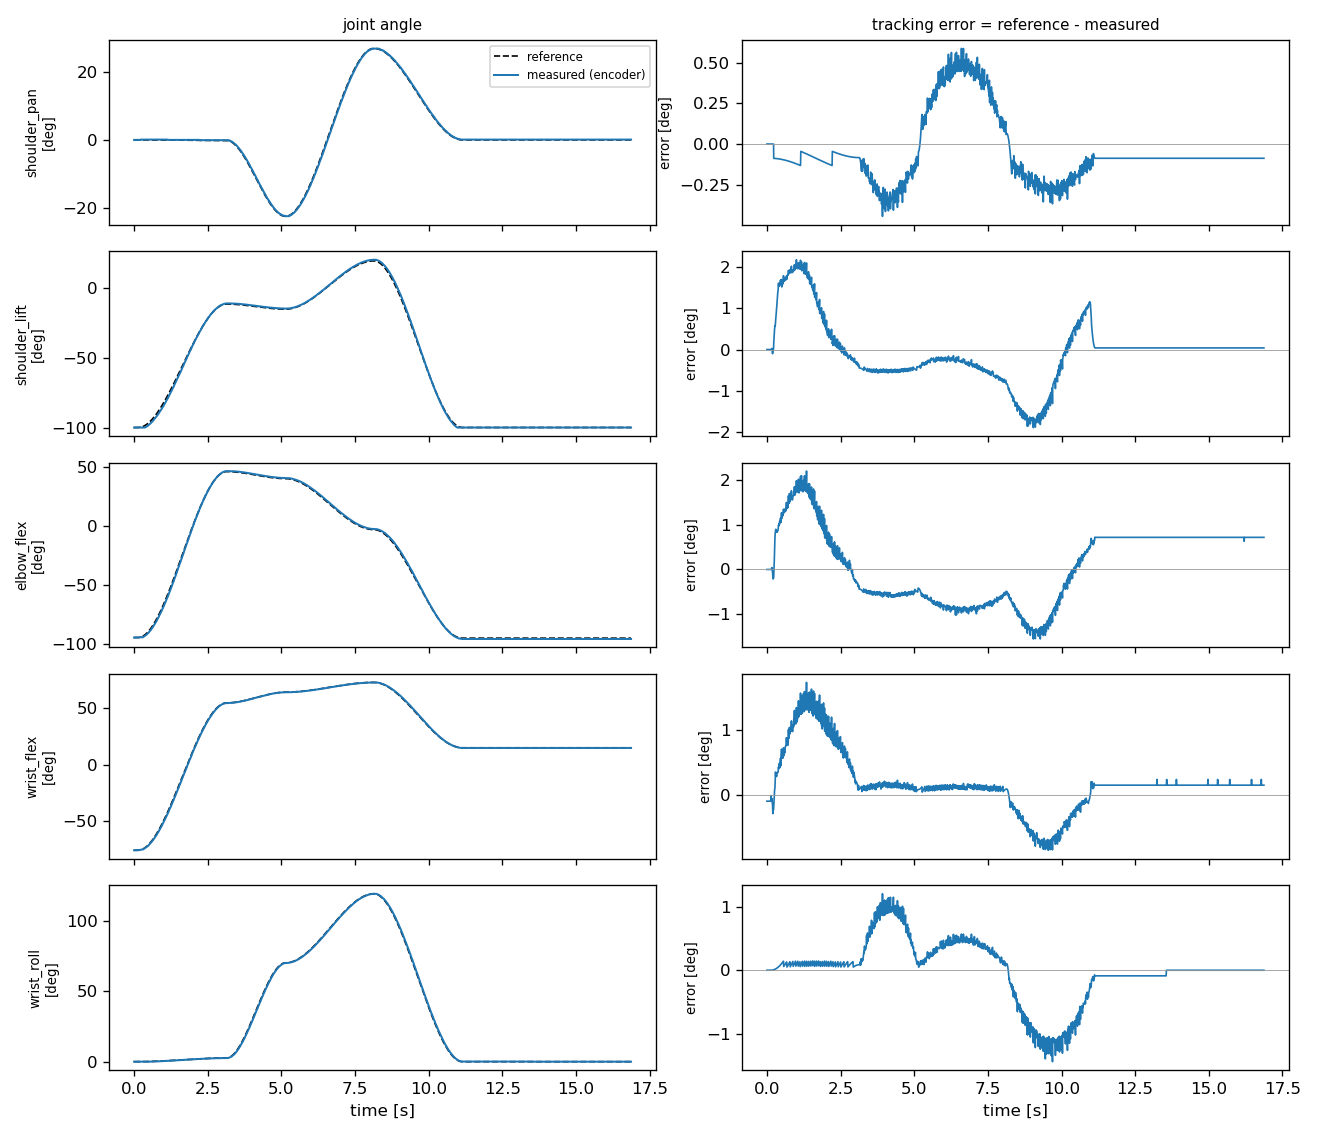
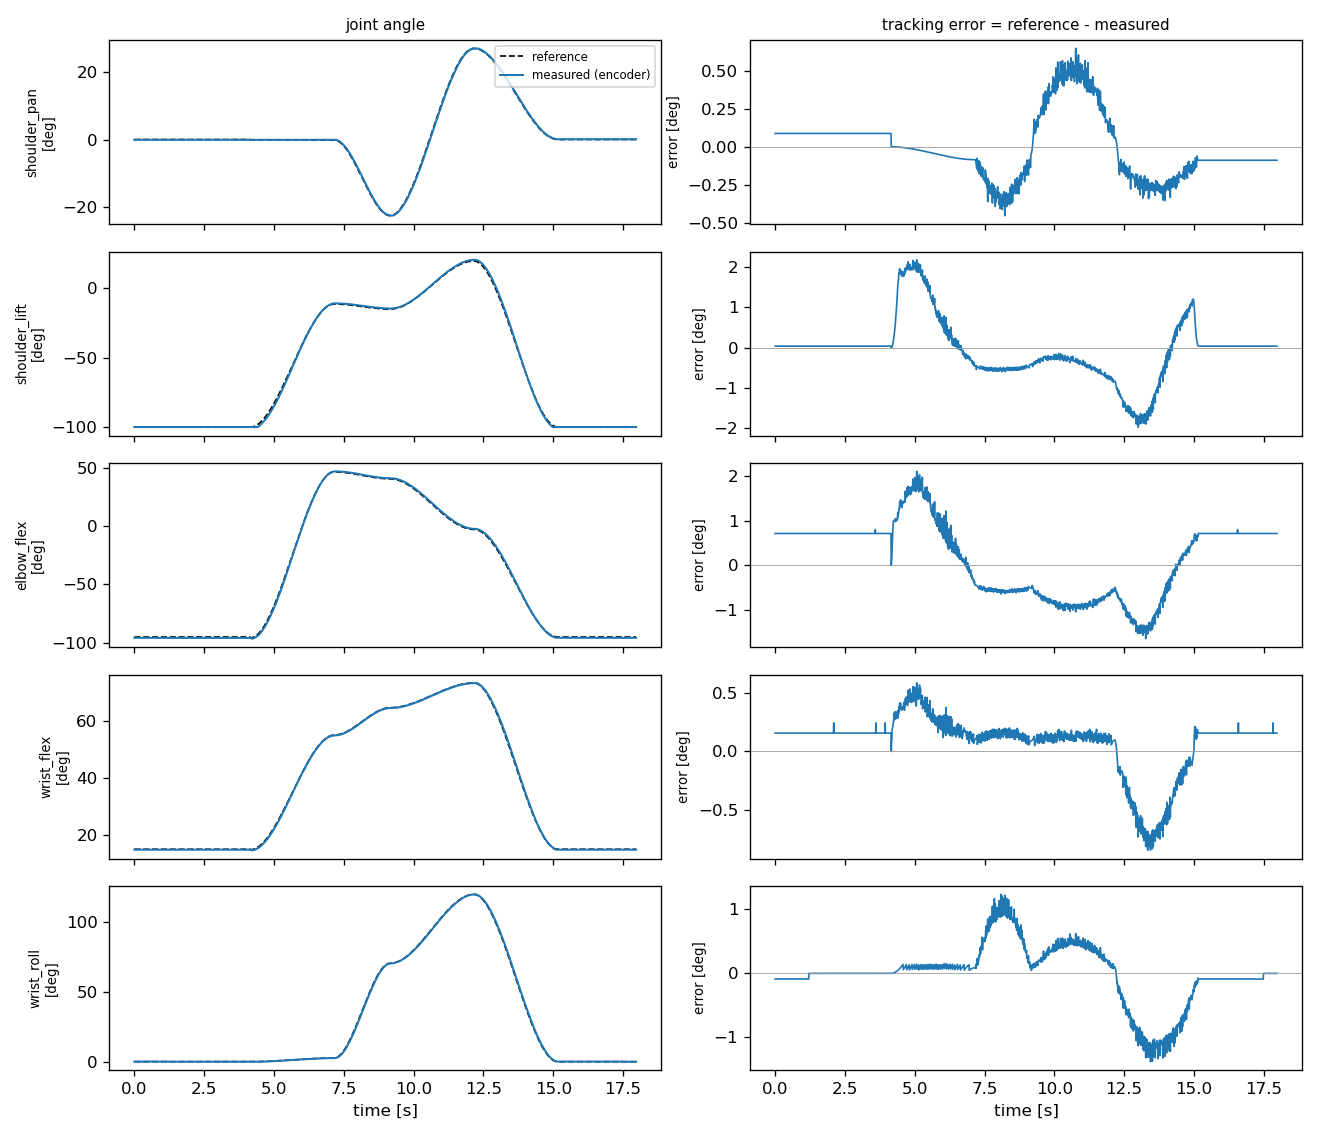
Phase 7v done: README section 10, engineering notes, results; new tracking plot

diff --git a/README.md b/README.md
@@ -31,6 +31,9 @@ measured. A real arm is an optional final phase. See [ROADMAP.md](ROADMAP.md).
 | **Camera-driven pick-and-place** (detector + hand-eye-calibrated camera + own IK) | **60/60 blocks seated** (20/20 per width), nothing about the blocks read from the simulator; perception error (xy) **0.69 mm** median, 1.01 mm max |
 | **Real-camera test (real)**: printed 1:1 sheet, 12 blocks, threshold fixed before the photos | **Phone (31 photos): 84.9 % graspable**, fused class **100 %**, xy error **0.75 / 1.72 mm** (median / p95) · laptop webcam (28 photos): 51.5 % graspable, 1.15 / 3.08 mm · synthetic baseline of the same sheet: 91–92 % · 0 false detections after the size check |
 | IK benchmark, 200 top-down poses (157 reachable) | **Own DLS IK:** 157/157 (100 %), 0.071 mm median error, 4.6 ms · **MoveIt 2 + pick_ik:** 154/157 (98.1 %), 0.563 mm, 7.5 ms, but fails in 52 ms vs 1046 ms |
+| STS3215 servo model (from the datasheet) | DC motor + 1:345 gearbox: k_t 0.785 N·m/A, R 3.04 Ω, dry + viscous friction, reflected rotor inertia, 12-bit encoder, internal P controller, I²R heating; reproduces the datasheet's stall torque, no-load speed and rated current; overheat protection switches torque off at 70 °C |
+| Virtual Feetech bus (pseudo-terminal, 1 Mbps wire timing, MuJoCo behind it) | Python client **502 Hz**, p99 5.8 ms · own **C++17 bus library** against it: **499 Hz, 0 timeouts**, p99 6.0 ms |
+| **Own ros2_control driver** (`so101_hardware`) on the virtual bus | **100 Hz**, 2 bus transactions per cycle (1.2 ms wire time) · trajectory tracking **0.66° rms** while moving (max 2.2°), ≤ 0.72° at rest (gravity sag) · **MoveIt 2 Plan & Execute over the serial protocol** · bus loss → driver stops in 50 ms, safety monitor stops motion independently · 43 C++ (gtest) / 64 Python tests in total |
 
 ## Project status
 
@@ -45,7 +48,11 @@ measured. A real arm is an optional final phase. See [ROADMAP.md](ROADMAP.md).
   - [x] 4.5a Pick-and-place driven by the camera instead of ground truth
   - [x] 4.5b MoveIt 2 configuration + benchmark against my own IK
   - [x] 4.2b Real-camera test with a printed 1:1 test sheet (laptop webcam and phone)
-- [ ] **Phase 7v, Virtual hardware:** STS3215 servo physics model, Feetech protocol emulator, own C++ ros2_control driver
+- [x] **Phase 7v, Virtual hardware**
+  - [x] 7v.1 STS3215 servo physics model + Feetech protocol emulator
+  - [x] 7v.2 Virtual serial port in real time, coupled to the MuJoCo arm
+  - [x] 7v.3 C++17 Feetech bus library + command-line tool
+  - [x] 7v.4 ros2_control hardware plugin, `hardware:=mock|feetech`, MoveIt on the virtual bus
 - [ ] **Realism layer + sim-to-real gap study:** camera noise and latency, calibration errors, ideal vs realistic sim
 - [ ] **Phase 5, Imitation learning:** ACT on sim demonstrations and on a public real SO-101 dataset, compared with the classic pipeline
 - [ ] **Phase 6, Release:** Docker, GitHub Actions CI, video
@@ -78,7 +85,9 @@ solver iterations made blocks "walk" on the rail (a simulation artefact, not a c
 | Package | What it does |
 |---|---|
 | `so101_description` | URDF imported reproducibly from SO-ARM100, own `tcp_link` matching the sim TCP (the official frame differs by 2 cm), RViz launch |
-| `so101_bringup` | ros2_control: mock hardware (replaced by a Feetech driver later), joint trajectory controller and gripper controller |
+| `so101_bringup` | ros2_control with `hardware:=mock` or `hardware:=feetech` (virtual or real bus), joint trajectory controller and gripper controller; `go_to_pose.py` (homing), `record_tracking.py` |
+| `feetech_bus` | **C++17** Feetech STS protocol library: packets, checksums, sign-magnitude registers, raw `termios` serial port, timeouts, stale-reply handling; `feetech_cli` |
+| `so101_hardware` | **C++** ros2_control `SystemInterface` plugin for the SO-101 on a Feetech bus (see section 10) |
 | `so101_interfaces` | `ServoTelemetry` message: load, temperature and voltage per servo |
 | `so101_safety` | **C++** safety monitor: debounced overload, temperature, voltage, fail-safe telemetry timeout; latched fault; stop-category-2-style stop through the controller manager; reset only when safe. The rules live in a ROS-free class covered by gtest |
 | `so101_moveit_config` | MoveIt 2: SRDF with a generated collision matrix, OMPL planning, **pick_ik** as IK plugin, `compare_ik_moveit.py` benchmark client |
@@ -180,6 +189,59 @@ What the test showed, and what was done about it:
 **Honest limitation:** a flat print cannot test block height, side faces, shadows or shiny plastic;
 the detector, pose and hand-eye numbers above it come from simulation.
 
+### 10. Virtual hardware: `sim/so101_sim/feetech/`, `feetech_bus`, `so101_hardware`
+The goal: the software that would drive a real arm, tested byte for byte, without buying one.
+```
+MoveIt 2 / demo scripts
+  -> JointTrajectoryController (ros2_control, 100 Hz)
+  -> so101_hardware  (C++ plugin: SYNC_READ state, SYNC_WRITE goals)
+  -> feetech_bus     (C++: Feetech STS protocol over a raw serial port)
+  -> /tmp/so101_bus  (pseudo-terminal)      | a real arm: /dev/ttyACM0, same code
+  -> Python emulator of 6 STS3215 servos (register map, protections, 1 Mbps wire timing)
+  -> servo physics model -> torque on the MuJoCo joints
+```
+- **Servo model (7v.1):** each STS3215 is a DC motor behind a 1:345 gearbox. The motor constants come
+  from the datasheet (stall torque, no-load speed, rated current), friction from the rated operating
+  point, the reflected rotor inertia (J·N²) enters MuJoCo as joint armature. The internal P controller
+  explains a load-dependent position error **e = τ_load / K_p**; I²R heating and the overload and
+  overheat protections behave like the firmware's.
+- **Virtual bus (7v.2):** a pseudo-terminal in raw mode, so bytes like 0x03 and 0x0D pass unchanged;
+  every reply is delayed by its wire time at 1 Mbps; the physics runs against the wall clock.
+  Latency and lost replies can be injected (`--latency-ms`, `--drop-rate`).
+- **C++ bus library (7v.3):** no exceptions in the loop (status codes), `poll()` timeouts, and before each
+  request the input is flushed, so a late reply to an earlier request is never taken as the answer.
+- **ros2_control plugin (7v.4):** one control cycle = **one SYNC_READ** of registers 56–63 (position,
+  velocity, load, voltage, temperature of all 6 servos, 0.98 ms) + **one SYNC_WRITE** of the goals
+  (0.26 ms). Lifecycle: *configure* checks every servo; *activate* is a **safe start** (goal := present
+  position, read back, then torque on); *deactivate* and bus errors leave the servos holding their last
+  goal. Telemetry for the safety monitor is published from its own thread, so the control loop never
+  waits on DDS. The joint calibration (`zero_steps`, `direction`) is a parameter per joint, so a real
+  arm only needs its own values and `port:=/dev/ttyACM0`.
+
+![Servo model against the datasheet, P-control sag and overheat protection](media/servo_model.png)
+
+**Tracking over the virtual bus** (demo trajectory, 100 Hz): the error grows with joint speed
+(following error of a P-controlled servo plus one cycle of delay), shoulder and elbow keep a small
+static offset under gravity, and steps of 0.088° show the 12-bit encoder.
+With mock hardware, the same plot is a flat zero line.
+
+| Joint | rms error | max error | final error |
+|---|---|---|---|
+| shoulder_pan | 0.20° | 0.65° | 0.09° |
+| shoulder_lift | 0.74° | 2.17° | 0.04° |
+| elbow_flex | 0.83° | 2.11° | 0.72° |
+| wrist_flex | 0.26° | 0.85° | 0.16° |
+| wrist_roll | 0.45° | 1.38° | 0.00° |
+
+![Reference vs measured joint angles over the virtual Feetech bus](media/ros2_control_feetech_tracking.png)
+
+Run it (three terminals):
+```bash
+python sim/scripts/run_virtual_bus.py --viewer                              # venv: 6 virtual servos
+ros2 launch so101_moveit_config demo.launch.py hardware:=feetech            # ROS: driver + MoveIt
+ros2 run so101_bringup go_to_pose.py park                                    # homing after power-up
+```
+
 ---
 
 ## Engineering notes
@@ -195,21 +257,54 @@ about 9.2 s each. Cause: the Windows clock was off by −9.19 s, so Hyper-V time
 Windows Time service on auto start, `systemd-timesyncd` disabled (one clock master), clock source
 `hyperv_clocksource_tsc_page`.
 
+**Safe start needs a read-back.** A servo keeps its last goal in RAM even with torque off; switching
+torque on would make it jump there. So the driver writes the *present* position as the goal first. But
+SYNC_WRITE is a broadcast without a reply, so the goals are **read back** before torque goes on - and
+write + read-back are repeated *together*, because if the write was lost, reading again never helps.
+A test shows the hazard: without safe start the (fake) servo jumps 97°.
+
+**Setup may retry, the control loop may not wait.** On the laptop the first start failed: one bus reply
+took longer than the 5 ms timeout (the Python bus has a p99 of about 6 ms under WSL), and safe start
+gave up correctly. Fix: start-up steps retry up to 3 times (nothing moves yet), the 100 Hz loop never
+retries (a late cycle delays every controller; 5 lost replies in a row = 50 ms blind → stop), and the
+reply timeout became a launch argument (`timeout_ms`, 10 ms for the virtual bus; a real USB adapter answers faster, so 5 ms there).
+Checked with injected faults: 4 ms extra latency + 2 % lost replies → every start succeeds after 1 retry.
+
+**One program per serial bus.** Two programs on one port take each other's replies, and both see random
+timeouts. The driver, the CLI and the Python client lock the port with `flock()`; a second program gets
+"in use by another program". The kernel drops the lock when the process ends, even after a crash
+(`TIOCEXCL` would stay set while the virtual bus keeps its end of the pty open).
+
+**A joint limit the encoder cannot show.** MoveIt refused to plan on the virtual bus: "Joint
+'shoulder_lift' ... outside bounds by [-1.74567], should be in the range [-1.74533]". The arm rests on its
+mechanical stop at -100°, and -1.74533 rad lies *between* two encoder steps (1.534 mrad each): the nearest
+reading is step -1138 = -1.74567 rad. MoveIt does not tolerate any start state outside the limits. Fix:
+the software limit has to contain every pose the arm can rest in, *plus the measurement resolution* →
+lower limit -1.7500 rad (3 steps). Moving 'park' off the stop instead was rejected: the shoulder then
+holds the arm at ~47 % PWM all the time (heat) and sags 1.3°. Mock hardware cannot show any of this.
+
+**Stick-slip when unfolding.** After power-up the gripper lies on the table. A straight joint move to
+'park' turns the wrist up first and presses the gripper into the table: friction holds it, the wrist servo
+sits at 100 % duty for 1.6 s, then it breaks loose and jumps 0.66 rad - the trajectory controller aborts
+on > 0.2 rad path error (a tracking error is a contact detector). `go_to_pose.py` therefore lifts the
+shoulder first and only then moves to the pose, like a real robot unfolding.
+
 ---
 
 ## Repository layout
 ```
 sim/            MuJoCo models (SO-101 from MuJoCo Menagerie + DIN-rail scenes) and so101_sim package
   so101_sim/    kinematics.py, ik.py, scene.py, pick_place.py
-  scripts/      demos (IK, scene viewer, pick-and-place runs), IK benchmark
-  tests/        pytest: FK, Jacobian/IK, scene, pick-and-place, URDF<->MJCF consistency
+    feetech/    STS3215 servo model, Feetech protocol + emulator, virtual serial bus, MuJoCo coupling, client
+  scripts/      demos (IK, scene viewer, pick-and-place runs), IK benchmark, virtual bus, servo model report
+  tests/        pytest: FK, Jacobian/IK, scene, pick-and-place, URDF<->MJCF consistency, servo model, protocol, bus
 perception/     so101_perception package: calibration, synthetic data, pose estimation, hand-eye
   scripts/      checkerboard PDF, capture (Windows), calibration, dataset generation, YOLO train/eval,
                 real-camera sheet test (PDF, capture, phone photo preparation, evaluation, error analysis),
                 pose evaluation, hand-eye calibration, camera-driven pick-and-place
   calibration/  camera and hand-eye calibration results (YAML)
   tests/        pytest: calibration, synthetic data, pose estimation, hand-eye
-ros2_ws/src/    ROS 2 packages (description, bringup, interfaces, safety, moveit_config)
+ros2_ws/src/    ROS 2 packages (description, bringup, interfaces, safety, moveit_config, feetech_bus, so101_hardware)
 experiments/    trial logs (CSV) and benchmark results (JSON)
 media/          GIFs and images for this README
 ROADMAP.md      plan and status of all phases
@@ -221,17 +316,26 @@ Tested on Windows 11 + WSL2 (Ubuntu 24.04), Python 3.12, ROS 2 Jazzy, RTX 3050 T
 # Python side (simulation, perception)
 uv venv --python 3.12 .venv && source .venv/bin/activate
 uv pip install -r requirements-lock.txt && uv pip install -e .
-pytest -q                                                  # 33 tests
+pytest -q                                                  # 64 tests
 python sim/scripts/run_pick_place.py --viewer              # watch the scripted pick-and-place
 python perception/scripts/run_camera_pick_place.py --episodes 20   # camera-driven pipeline
 
 # ROS 2 side (separate terminal, without the venv)
 source /opt/ros/jazzy/setup.bash && cd ros2_ws
 colcon build --symlink-install && source install/setup.bash
-colcon test --packages-select so101_safety                # C++ unit tests
-ros2 launch so101_bringup bringup.launch.py                # robot + controllers + RViz
+colcon test --packages-select so101_safety feetech_bus so101_hardware   # C++ unit tests
+ros2 launch so101_bringup bringup.launch.py                # robot + controllers + RViz (mock hardware)
 ros2 launch so101_safety safety.launch.py                  # safety monitor + simulated telemetry
 ros2 launch so101_moveit_config demo.launch.py             # MoveIt 2 + RViz (Plan & Execute)
+```
+
+**Virtual hardware** (venv terminal + ROS terminals):
+```bash
+python sim/scripts/run_virtual_bus.py --viewer                       # venv: virtual servos at /tmp/so101_bus
+ros2 launch so101_moveit_config demo.launch.py hardware:=feetech     # ROS: own driver + MoveIt
+ros2 launch so101_safety safety.launch.py fake_telemetry:=false      # ROS: safety monitor on real telemetry
+ros2 run so101_bringup go_to_pose.py park                             # ROS: homing after power-up
+ros2 run so101_bringup demo_trajectory.py                             # ROS: demo trajectory
 ```
 
 **IK benchmark** (needs both environments):
@@ -242,8 +346,8 @@ python sim/scripts/ik_benchmark.py report                  # venv: comparison ta
 ```
 
 ## Tech stack
-Python, NumPy, SciPy, MuJoCo · ROS 2 Jazzy, ros2_control, MoveIt 2 (OMPL, pick_ik), rclcpp (C++17),
-gtest · OpenCV · Ultralytics YOLO26-OBB, PyTorch · LeRobot (ACT, coming next) · WSL2
+Python, NumPy, SciPy, MuJoCo · ROS 2 Jazzy, ros2_control (own hardware plugin, pluginlib), MoveIt 2
+(OMPL, pick_ik), rclcpp (C++17), gtest · Feetech STS serial protocol, POSIX termios / pseudo-terminals · OpenCV · Ultralytics YOLO26-OBB, PyTorch · LeRobot (ACT, coming next) · WSL2
 
 ## Credits and licences
 - SO-101 URDF and meshes: [TheRobotStudio/SO-ARM100](https://github.com/TheRobotStudio/SO-ARM100) (Apache-2.0)

diff --git a/ROADMAP.md b/ROADMAP.md
@@ -26,7 +26,7 @@ Pace: ~8 h/week. After every phase: README result row + short GIF/clip + commit.
 | 4.5a | Camera-guided pick & place in sim — 60/60 | ✅ Done | – |
 | 4.5b | MoveIt 2 (pick_ik) + benchmark vs own IK — own 157/157, 0.07 mm; pick_ik 154/157, 0.56 mm | ✅ Done | – |
 | 4.2b | Real-camera test with printed 1:1 sheet — phone 84.9 % graspable, 0.75 mm; laptop 51.5 % | ✅ Done | – |
-| 7v | Virtual hardware: servo model, Feetech emulator, C++ ros2_control driver | ⬜ | 14 Dec – 3 Jan |
+| 7v | Virtual hardware: servo model, Feetech emulator, C++ ros2_control driver — 100 Hz, 0.66° rms tracking, MoveIt on the virtual bus | ✅ Done (28 Nov, ahead of plan) | – |
 | R | Realism layer + sim-to-real gap study | ⬜ | 4 – 17 Jan |
 | 5 | ACT imitation learning (sim demos + real public SO-101 data) | ⬜ | 18 Jan – 7 Feb |
 | 6 | Release: Docker, GitHub Actions CI, video, final README | ⬜ | 8 – 21 Feb |
@@ -63,25 +63,32 @@ Fused class 100 % everywhere; size check removes all false detections. Remaining
 Lessons: pre-registered threshold, calibration coverage + distortion model check, binned phone modes.
 **Be able to explain:** what a flat print tests (camera model, detector) and what it cannot (height, shadows, occlusion).
 
-## 7v — Virtual hardware (the core of the "realistic" version)
+## 7v — Virtual hardware ✅
 
-1. **Servo physics model (STS3215):** DC motor + 1:345 gearbox from datasheet values
-   (Kt, R, rated current), Coulomb + viscous friction, backlash, speed and torque limits,
-   12-bit encoder quantization, internal P-controller, I²R thermal model, stall/overheat protection.
-2. **Feetech protocol emulator:** Python, virtual serial port (pty), 6 IDs, real register map,
-   PING / READ / WRITE / SYNC_WRITE, checksums, bus timing at 1 Mbps, injectable latency and packet loss.
-   Its motors are the MuJoCo joints.
-3. **C++ protocol library:** packet encode/decode + checksum, gtest unit tests.
-4. **C++ ros2_control `SystemInterface` (`so101_hardware`):** lifecycle, SyncWrite goals,
-   read position / load / temperature.
-5. **Bringup:** launch argument `hardware:=mock|emulator|feetech`.
-6. **Safety:** safety node reacts to emulator-injected over-temperature and comms timeouts.
-7. **Integration test:** send a trajectory, check tracking within tolerance.
+1. **7v.1 Servo physics model (STS3215):** DC motor + 1:345 gearbox from datasheet values
+   (k_t 0.785 N·m/A, R 3.04 Ω), dry + viscous friction, backlash, reflected inertia, 12-bit encoder,
+   internal P controller, I²R thermal model, overload/overheat protection. **Feetech protocol emulator:**
+   real register map, PING / READ / WRITE / REG_WRITE / ACTION / SYNC_WRITE / SYNC_READ, EEPROM lock.
+2. **7v.2 Virtual serial port:** pty in raw mode, wire timing at 1 Mbps, real-time physics, injectable
+   latency and lost replies; its motors are the MuJoCo joints. Python client: 502 Hz, p99 5.8 ms.
+3. **7v.3 C++17 bus library `feetech_bus` + `feetech_cli`:** status codes instead of exceptions, `poll()`
+   timeouts, stale-reply handling; byte-compatible with the emulator: 499 Hz, 0 timeouts.
+4. **7v.4 ros2_control plugin `so101_hardware`:** lifecycle, one SYNC_READ (registers 56–63) + one
+   SYNC_WRITE per cycle, safe start with read-back, setup retries, one driver per bus (`flock`),
+   telemetry thread for the safety monitor; bringup `hardware:=mock|feetech`, `timeout_ms`;
+   homing tool `go_to_pose.py`; tracking recorder `record_tracking.py`.
 
-**Deliverable:** the same driver that would run a real arm, tested byte-for-byte against an emulator.
-**Be able to explain:** half-duplex bus timing and the control-loop rate limit; ros2_control lifecycle;
-why a P-controlled geared servo has a load-dependent position error (e = τ_load / K_p, plus backlash);
-what an emulator cannot prove (real timing, compliance, gravity load on real links).
+**Result:** MoveIt 2 Plan & Execute over the serial protocol; 100 Hz, tracking 0.66° rms while moving
+(max 2.2°); bus loss → driver stops in 50 ms, safety monitor stops motion on telemetry timeout;
+43 C++ + 64 Python tests.
+**Found on the way (none of it visible with mock hardware):** a 5 ms reply timeout was too tight for
+the Python bus (p99 ~6 ms) → setup retries + 10 ms; a joint limit between two encoder steps made MoveIt
+reject the resting arm → limit with 3 steps of margin; stick-slip of the gripper on the table during
+unfolding → lift-off-first homing.
+**Be able to explain:** half-duplex bus timing and the cycle budget (0.98 + 0.26 ms of 10 ms);
+ros2_control lifecycle and read → update → write; why a P-controlled geared servo has a load-dependent
+position error (e = τ_load / K_p); why setup may retry but the loop may not; what an emulator cannot prove
+(real USB latency, compliance and backlash of real links, real friction).
 
 ## R — Realism layer + sim-to-real gap study
 
@@ -121,7 +128,8 @@ what an emulator cannot prove (real timing, compliance, gravity load on real lin
 
 ## 8 — Optional: real SO-101 follower arm (only if time and budget allow)
 
-Everything above transfers directly: `hardware:=feetech` replaces `hardware:=emulator`.
+Everything above transfers directly: the same `hardware:=feetech` driver, only with `port:=/dev/ttyACM0`,
+`timeout_ms:=5` and the arm's own joint calibration (`zero_steps`, `direction` per joint).
 
 **Parts (follower only, ~€215–260 incl. shipping, prices from Nov 2026):**
 
@@ -139,7 +147,7 @@ Everything above transfers directly: `hardware:=feetech` replaces `hardware:=emu
 **Steps (~4 weeks):**
 1. Order parts, book printer slots, print the follower parts.
 2. Set servo IDs one at a time, assemble, calibrate; first motion.
-3. Own C++ driver on the real arm; MoveIt Plan & Execute on hardware.
+3. Own C++ driver on the real arm (`feetech_cli scan` first, then bringup); MoveIt Plan & Execute on hardware.
 4. Real hand-eye calibration, real picks; compare real vs realistic-sim numbers (validates the twin).
 5. Optional: servo health monitoring (load, current, temperature, safe stop).
 
